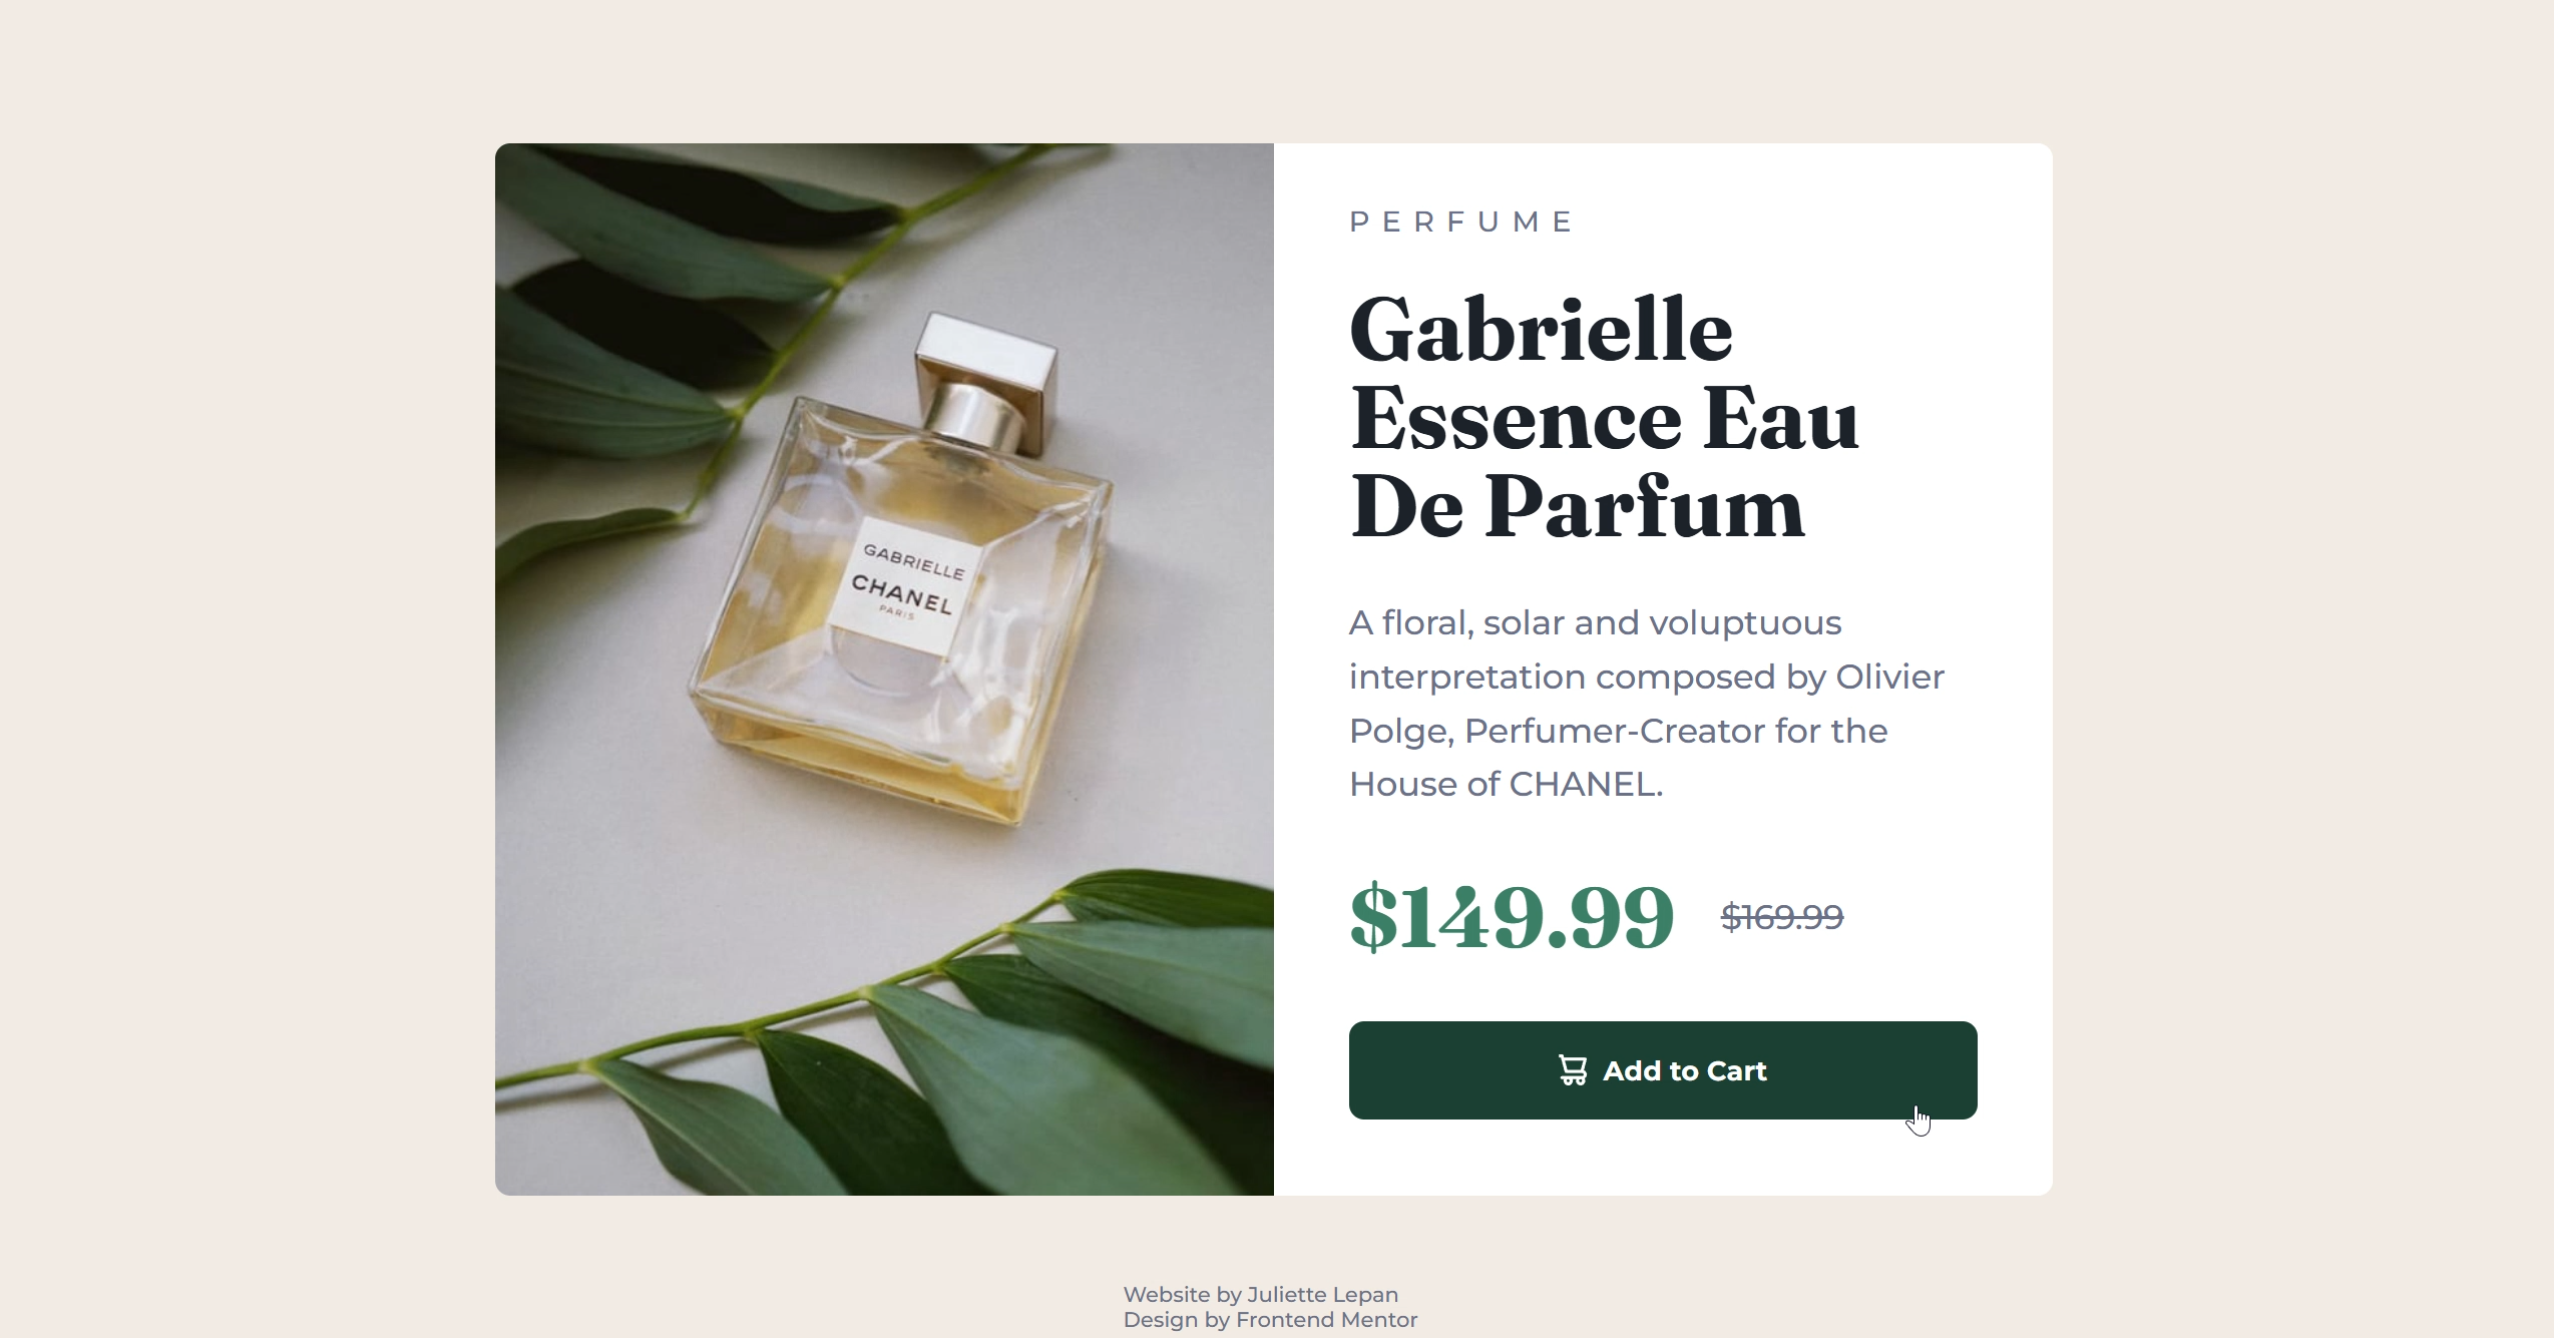
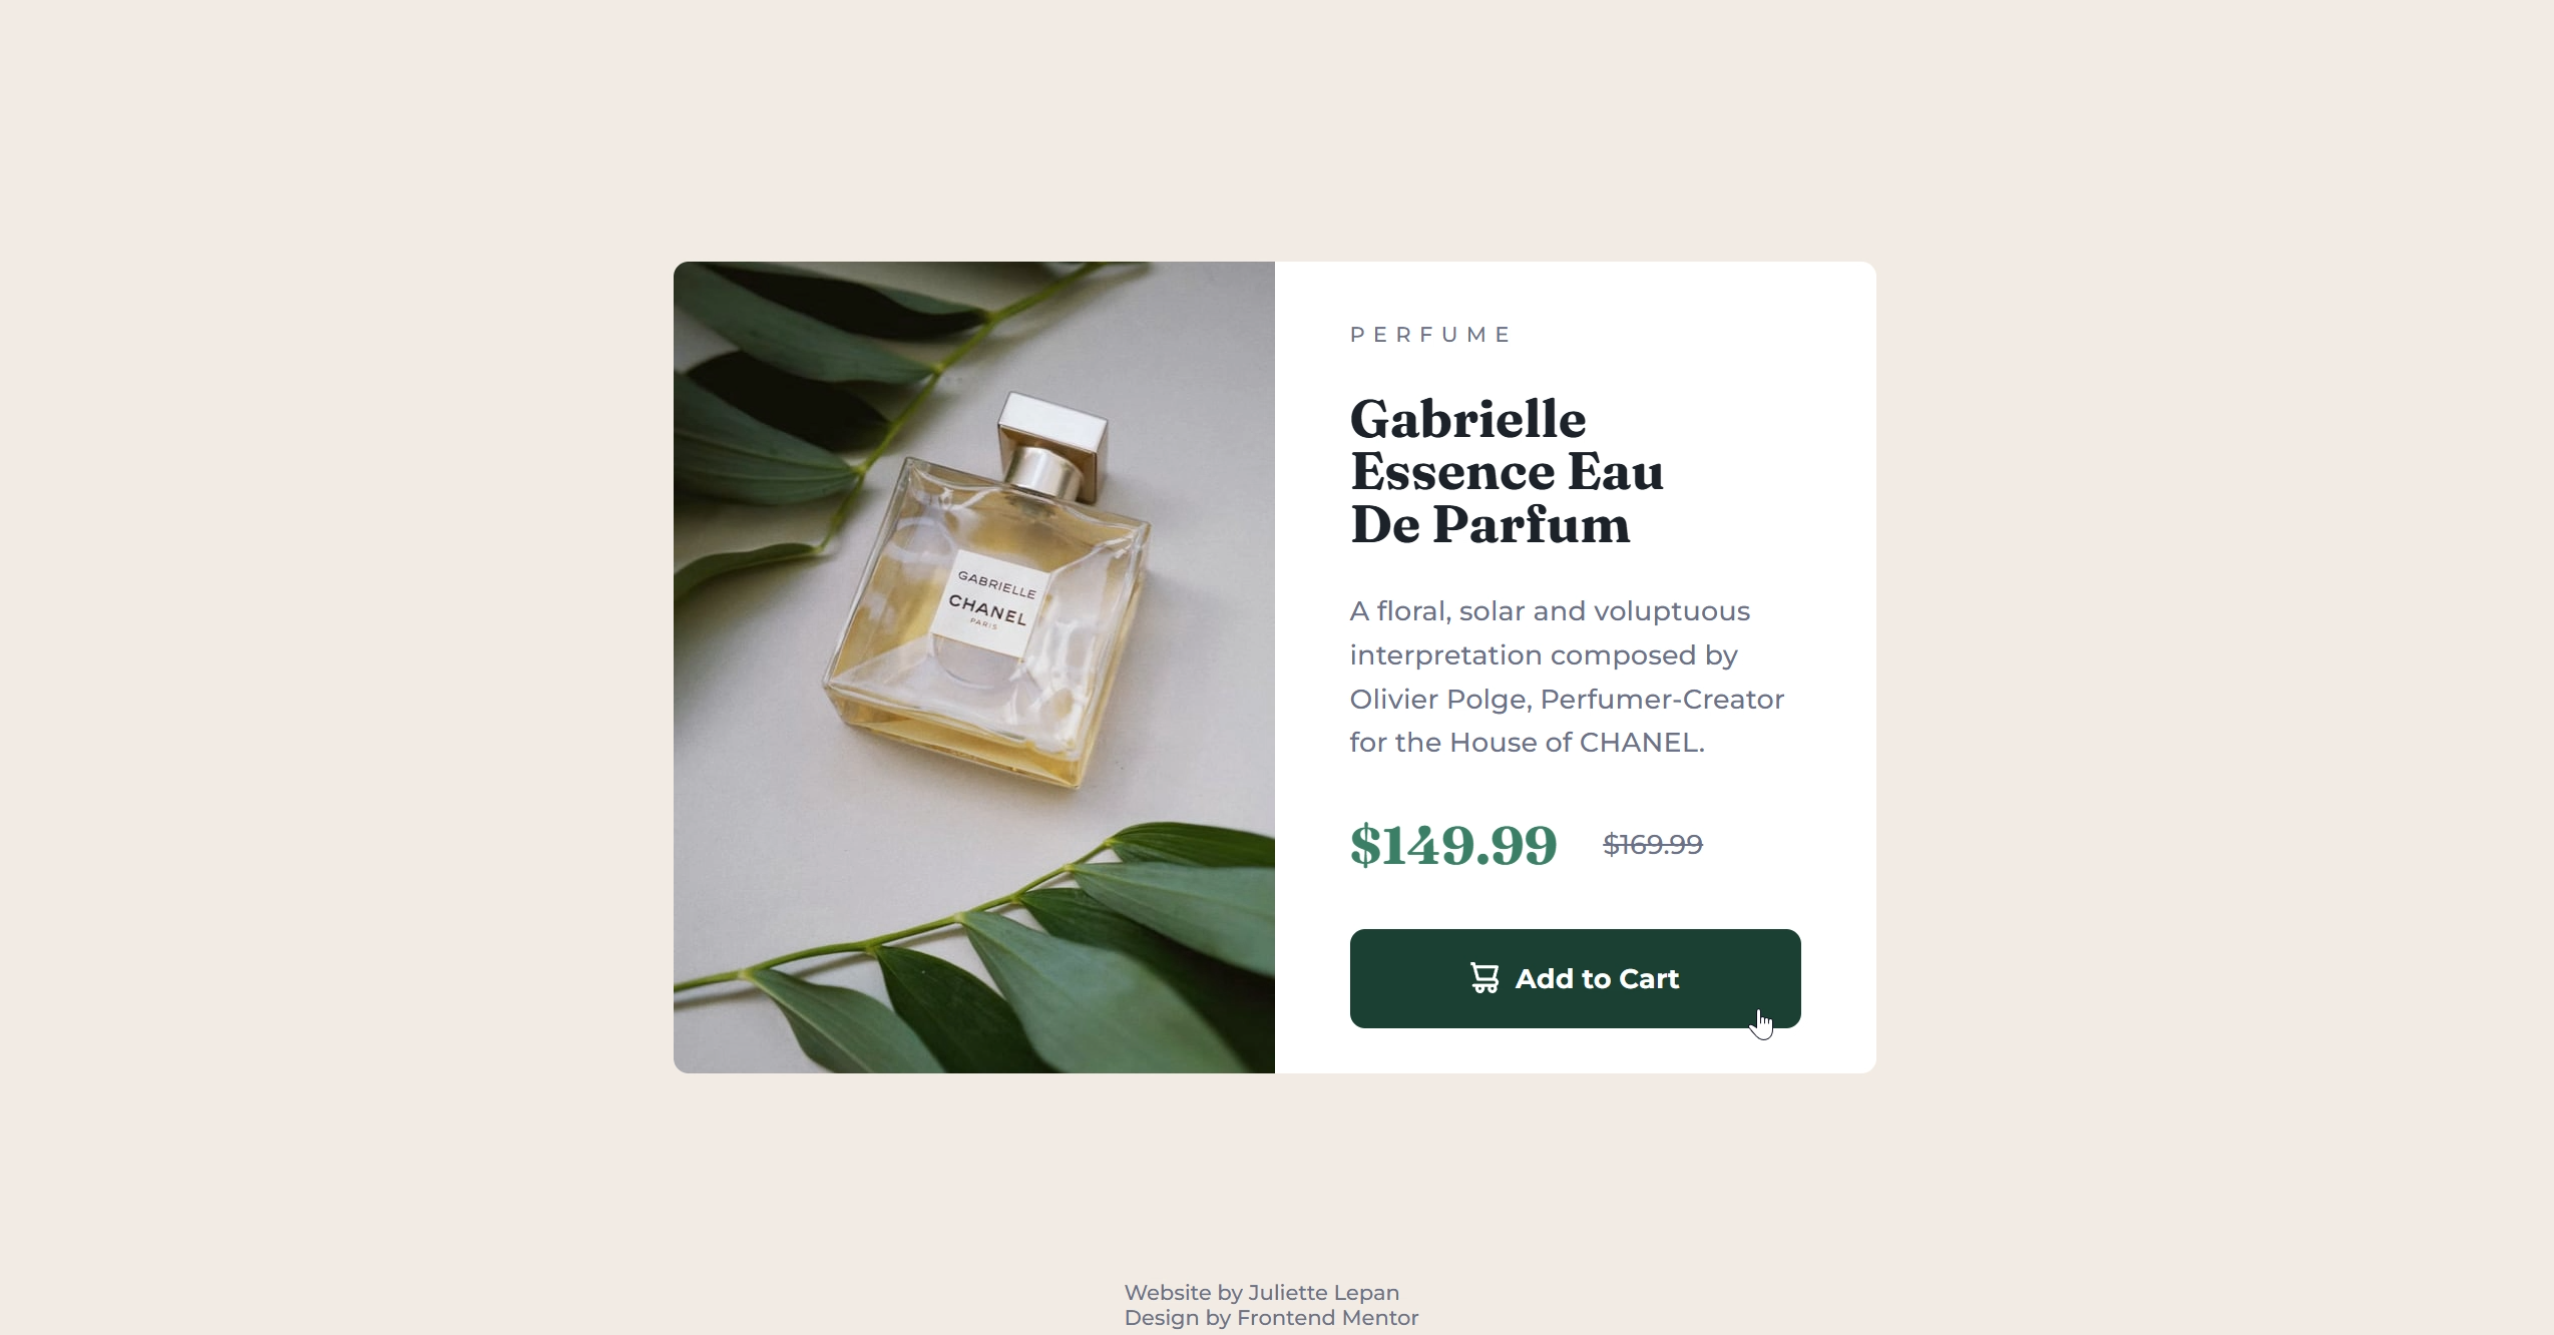
Modification dimensions container sur écran desktop

diff --git a/style.css b/style.css
@@ -44,7 +44,7 @@ main {
     background-color: hsl(0, 0%, 100%);
     margin: auto;
     width: 92%;
-    max-width: 518px;
+    max-width: 418px;
     border-radius: 10px;
 }
 
@@ -73,20 +73,21 @@ main {
 .product-card .category {
     text-transform: uppercase;
     letter-spacing: 0.4em;
-    font-size: clamp(0.8rem, 1.7vw, 1.4rem);
+    font-size: clamp(0.8rem, 1.7vw, 1rem);
     font-weight: 500;
 }
 
 .product-card h1 {
     color: hsl(212, 21%, 14%);
     font-family: "Fraunces", 'Times New Roman', Times, serif;
-    font-size: clamp(2.2rem, 5.1vw, 4.2rem);
+    font-size: clamp(2.2rem, 5.1vw, 2.5rem);
     line-height: 1;
-    margin: 15px 0
+    margin: 15px 0;
+    text-wrap: balance;
 }
 
 .product-card .description {
-    font-size: clamp(1rem, 2.1vw, 1.6rem);
+    font-size: clamp(1rem, 2.1vw, 1.3rem);
     line-height: 1.6;
     font-weight: 500
 }
@@ -108,13 +109,13 @@ main {
     color: hsl(158, 36%, 37%);
     font-weight: 700;
     font-family: "Fraunces", 'Times New Roman', Times, serif;
-    font-size: clamp(2.2rem, 4.4vw, 4rem);
+    font-size: clamp(2.2rem, 4.4vw, 2.5rem);
 }
 
 .price .old-price {
     font-weight: 500;
     text-decoration: line-through;
-    font-size: clamp(1rem, 1.8vw, 1.6rem);
+    font-size: clamp(1rem, 1.8vw, 1.3rem);
 }
 
 .product-price button {
@@ -163,19 +164,19 @@ footer a:hover {
 
 @media only screen and (min-width: 768px) {
     .container {
-        max-width: 1036px;
+        max-width: 800px;
         display: grid;
         grid-template-columns: 1fr 1fr;
-        aspect-ratio: 1036 / 700;
-        max-height: 700px;
+        aspect-ratio: 800 / 540;
+        max-height: 540px;
     }
     .contain-img {
         border-top-right-radius: 0;
         border-bottom-left-radius: 10px;
-        max-height: 700px;
+        max-height: 540px;
     }
     .product-card {
-        padding: 40px 50px 50px;
+        padding: 40px 50px 30px;
         display: flex;
         flex-direction: column;
         justify-content: space-between;
@@ -183,18 +184,15 @@ footer a:hover {
     .product-card h1 {
         margin-top: 30px;
     }
+    .product-card .product-price {
+        gap: 35px
+    }
     .product-price .price {
         gap: 30px
     }
     .product-price button svg {
         width: 20px;
         height: 21px
-    }
-}
-
-@media only screen and (min-width: 900px) {
-        .product-card .product-price {
-        gap: 35px
     }
 }
 
